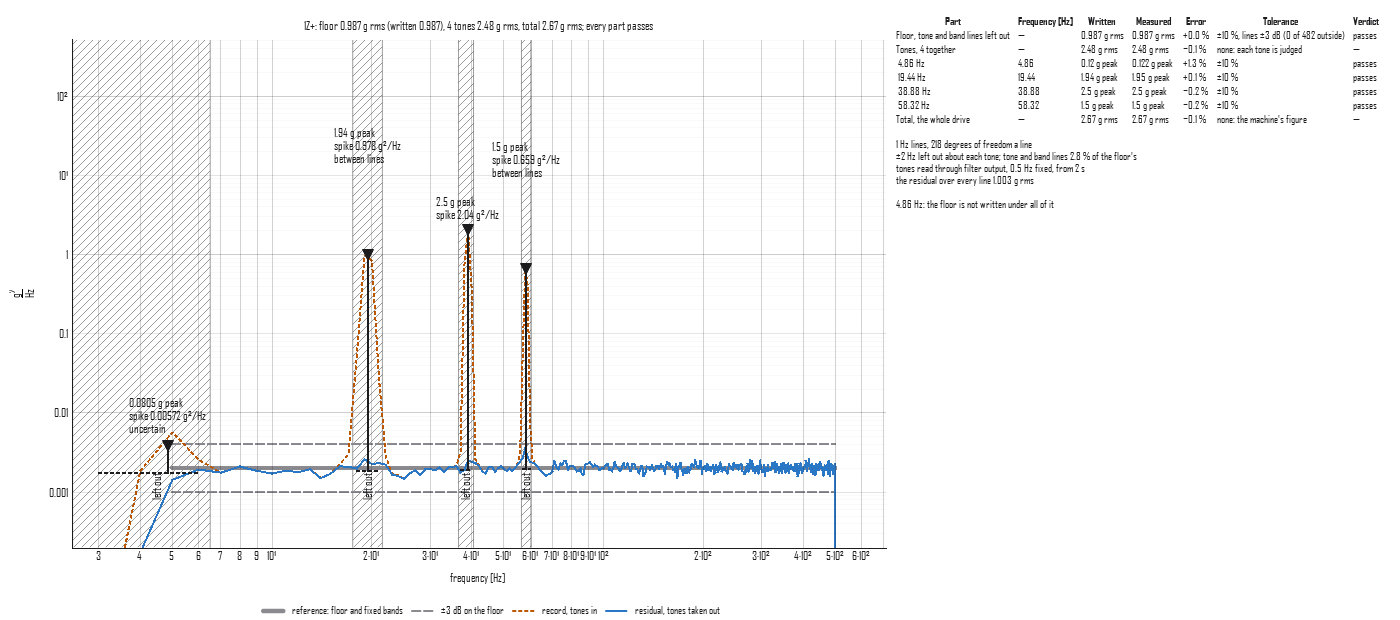
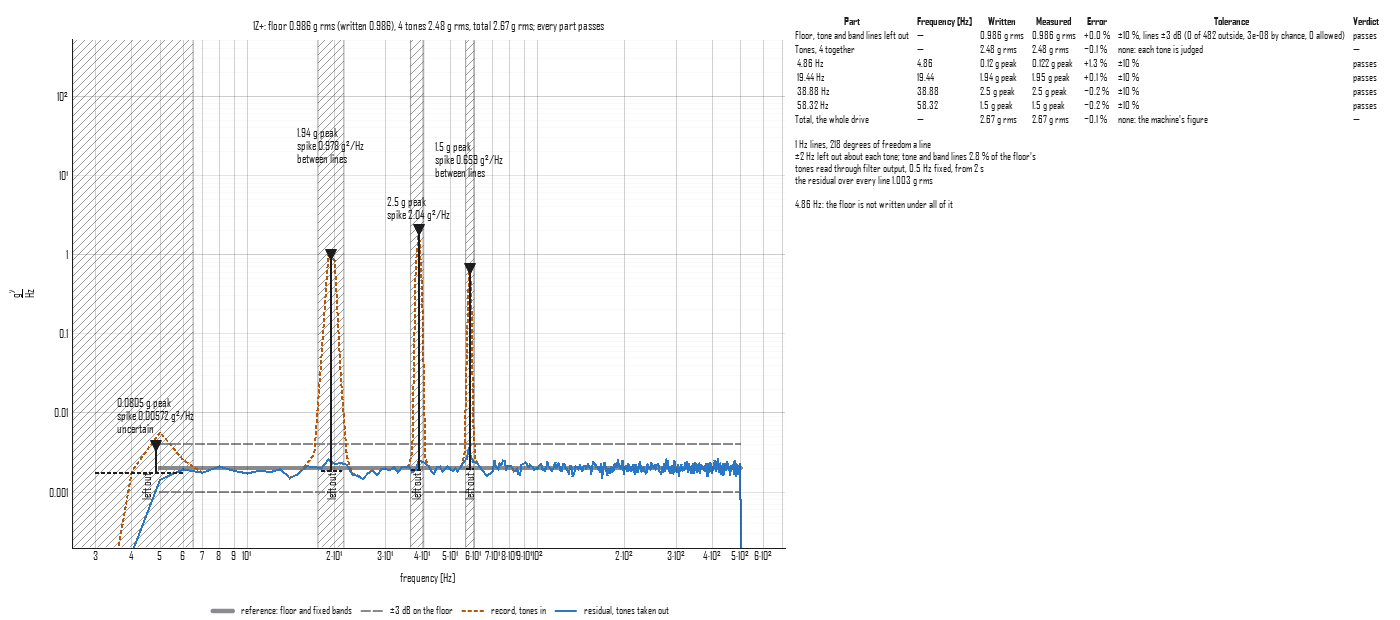
Guide: the floor held to chance, lines a tone held, the onset found; figures redrawn

Changed region(s): [[0.0614, 0.0306, 0.6143, 0.95], [0.5529, 0.0306, 0.9521, 0.3371], [0.1536, 0.9806, 0.5221, 1.0]]

diff --git a/tools/make_concept_figures.py b/tools/make_concept_figures.py
@@ -870,11 +870,19 @@ def mixed_mode():
     spec = MixedSpecification(floor, [Tone(f, a * g) for f, a in tones],
                               seconds=60.0)
     history = record(x)
-    plot_mixed_mode(history, spec, unit_system=us, show=False,
+    # the tones run from the record's first sample
+    plot_mixed_mode(history, spec, onset=0.0, unit_system=us, show=False,
                     size=(1400, 620), path=str(OUT / 'mixed-mode-sheet.png'))
-    reading = judge_mixed(history, spec)
+    reading = judge_mixed(history, spec, onset=0.0)
     print(f'mixed: residual every line {reading.floor.residual / g:.3f} '
           f'grms, tones {reading.tones_measured / g:.3f} g rms, '
+          f'tones read {[round(t.measured / g, 3) for t in reading.tones]}, '
+          f'floor {reading.floor.measured / g:.3f} against '
+          f'{reading.floor.reference / g:.3f}, left out '
+          f'{100 * reading.floor.left_out:.1f} %, outside '
+          f'{reading.floor.outside} of {reading.floor.judged} '
+          f'({reading.floor.expected:.2g} by chance, {reading.floor.allowed} '
+          f'allowed), total {reading.total.measured / g:.3f}; '
           f'{reading.describe("g", 1 / g)}')
 
     # random on random: a fixed band and a swept one over the floor

diff --git a/docs/guide/mixed-mode.md b/docs/guide/mixed-mode.md
@@ -49,9 +49,8 @@ spec.reference_rms()                          # floor, tones, bands, total
 The tone table is entered as `Tone` rows. A fixed tone is a row with a
 frequency and an amplitude; a swept tone adds `sweep_to`, a `rate` and
 a `mode` (`LINEAR` in Hz/s, `LOG` in octaves a minute). A fixed tone
-used to be written by hand as a sweep across a ten-thousandth of a
-hertz; a row says what it is, and is written into the sine
-specification as the dwell a controller's file holds (`SineTone.dwell`).
+is written into the sine specification as the dwell a controller's
+file holds (`SineTone.dwell`).
 `spec.tone_table()` reads any sine specification back as rows, fixed
 where every segment holds one frequency.
 
@@ -93,21 +92,36 @@ opens in an older version as the plain random specification. Given to
 `judge_mixed(history, spec)` reads one channel of a record against it,
 part by part:
 
-1. Each tone is read through a tracking band locked to its frequency
-   (0.5 Hz wide by default), the way a controller reads it
+1. Where the tones begin in the record is found by matched filter, as
+   the extraction finds it, unless `onset` is given. Each tone is read
+   through a tracking band locked to its frequency (0.5 Hz wide by
+   default), the way a controller reads it
    ([How a tracking filter reads a sweep](sine-tracking.md)). The band
    settles in about one over its width, so nothing before that is read;
    the tone's level is the median of the readings after it, compared
    with the table at plus or minus 10 percent, an example of what test
-   documents ask for.
+   documents ask for. A small tone near the floor scatters through its
+   band from reading to reading, and the median reads its level through
+   that scatter.
 2. What each band passed is taken out of the record. What is left, the
    residual, is the floor and the narrowbands.
 3. The floor is judged on the residual's averaged spectrum with the
-   lines within the left-out width of every tone, and every
-   narrowband's lines, left out: its rms against the reference's over
-   the same lines (plus or minus 10 percent) and each line against the
-   reference (plus or minus 3 dB). A swept tone's left-out lines are
-   every line it passes, since each held it for part of the run.
+   lines that held a tone, and every narrowband's lines, left out. A
+   line held a tone when the tone spent a tenth of its run or more
+   within the left-out width of it: every line beside a fixed tone, and
+   few or none of the lines a long sweep passes, since it is near each
+   only briefly and what the band took with it is a small share of that
+   line's power. The floor is judged as a comparison is
+   (`compliance.judge`): its rms against the reference's over the same
+   lines (plus or minus 10 percent), and its lines against the
+   reference moved 3 dB either way. An averaged line scatters, so a
+   correctly controlled floor has a few lines outside 3 dB on a short
+   record: on a 10 s record read from 2 s, about 28 degrees of freedom
+   a line, 1.4 percent of lines, five of 384. The lines fail only when
+   more are outside than chance would put there one time in a thousand;
+   the sheet gives the count beside the number chance expects and the
+   number allowed. A floor with no line left to judge is not judged, and
+   the reading says so.
 4. Each narrowband is judged at the degrees of freedom of a narrow
    band. A fixed band's level is the mean of its lines, worth the
    per-line degrees of freedom times its lines over the window's noise
@@ -124,20 +138,21 @@ part by part:
 ```python
 from visualdynamics.core.mixed_mode import judge_mixed
 
-reading = judge_mixed(history, spec)
+reading = judge_mixed(history, spec, onset=0.0)  # tones from the start
 reading.floor.residual / g        # 1.003, the residual over every line
 reading.tones_measured / g        # 2.477, the tracked tones' rms
 reading.total.measured / g        # 2.671, the whole drive
 print(reading.describe('g', 1 / g))
 
-visualdynamics.plot.plot_mixed_mode(history, spec, path='sheet.png')
+visualdynamics.plot.plot_mixed_mode(history, spec, onset=0.0,
+                                    path='sheet.png')
 ```
 
 The figures are for one minute of the composite above, the guide
 composite of [Reading a tone off an ASD](tone-readout.md). The tracked
 tones read 0.122, 1.945, 2.496 and 1.498 g peak, 2.477 g rms together
 against 2.479 written; the residual 1.003 grms over every line, and
-0.987 against 0.987 written with the tone lines left out (2.8 percent
+0.986 against 0.986 written with the tone lines left out (2.8 percent
 of the floor's lines); and the whole drive 2.671. Every value is
 stored in SI, as every record is; `describe` and the plot take the display unit.
 
@@ -151,17 +166,17 @@ its written and measured figure, its tolerance and its verdict in
 words, and the settings that decide what the numbers mean under them.
 
 ![Sine on random: the residual and the record over the floor, the lines
-left out hatched, and the sheet: 0.987 grms for the floor, 2.48 g rms
+left out hatched, and the sheet: 0.986 grms for the floor, 2.48 g rms
 for the tones, 2.67 for the total](images/mixed-mode-sheet.png)
 
 ![Random on random: a band plus or minus 5 percent about 300 Hz and a
 16 Hz band sweeping 150 to 250 Hz, each judged at its own degrees of
 freedom](images/mixed-mode-bands.png)
 
-In the second figure the swept band is read in 35 slices of about 10
-degrees of freedom each, where a floor line has 104; one slice's
+In the second figure the swept band is read in 37 slices of about 10
+degrees of freedom each, where a floor line has 112; one slice's
 scatter alone is wider than 3 dB either way, and the band's level
-pooled over the slices reads 0.2 dB under its written level. Its edges
+pooled over the slices reads 0.2 dB over its written level. Its edges
 are drawn dash-dotted and its travel cross-hatched, so the plot shows
 where the band went as well as how strong it was. The figures are made
 by `tools/make_concept_figures.py`.
@@ -190,7 +205,14 @@ left-out lines hatched. The narrowbands are the floor's own
   a fixture resonance at a tone, is not judged against the floor's
   tolerance at all. The sheet gives the width and the share of the
   floor's lines it took, and says so in a note when more than half the
-  floor was left out, as a long sweep does.
+  floor was left out.
+- A steady tone has nothing in time for the matched filter to lock onto
+  but where it starts, so with no `onset` given it is placed somewhere
+  it plays, never before it, and the floor is read from there. Give
+  `onset` when the tones' start is known.
+- A record of another quantity than the floor or the tones (velocity
+  against an acceleration floor) is refused, by the rule every
+  comparison uses.
 - A tone at the floor's edge has no floor under it on one side. The
   reading says so in a note.
 - A swept band moving faster than a frame fine enough to resolve it
